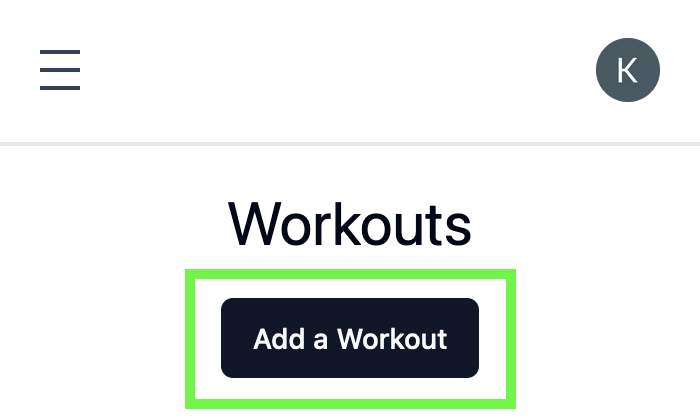
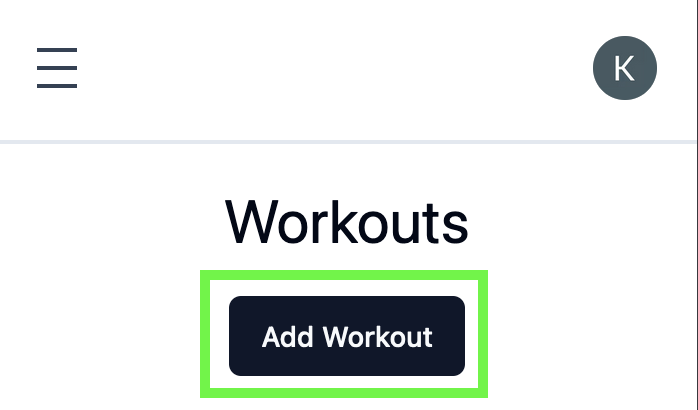
Change Add a Workout to Add Workout

diff --git a/app/guide/page.tsx b/app/guide/page.tsx
@@ -15,7 +15,7 @@ export default function HowTo() {
         <h2 className="mb-2 text-xl underline">Workouts Page</h2>
         <p>
           Navigate to the Workouts page and create a workout by clicking
-          &quot;Add a Workout.&quot;
+          &quot;Add Workout.&quot;
         </p>
         <Image
           src={addWorkoutImage}
@@ -56,7 +56,7 @@ export default function HowTo() {
           className="my-4 h-auto w-full border-2 border-black sm:w-2/3"
         />
         <p>
-          After entering a workout, it will be visible under the &quot;Add a
+          After entering a workout, it will be visible under the &quot;Add
           workout&quot; button. The history of all the workouts completed is
           visible on the workouts page. Tap to expand a specific workout.
         </p>

diff --git a/app/workouts/WorkoutsUI.tsx b/app/workouts/WorkoutsUI.tsx
@@ -36,7 +36,7 @@ export default function WorkoutsUI({ workouts }: { workouts: Workout[] }) {
   return (
     <div className="p-5 text-center">
       <h1 className="mb-5 text-3xl">Workouts</h1>
-      <Button onClick={addWorkout}>Add a Workout</Button>
+      <Button onClick={addWorkout}>Add Workout</Button>
       <Workouts
         workouts={workouts}
         editWorkout={editWorkout}
